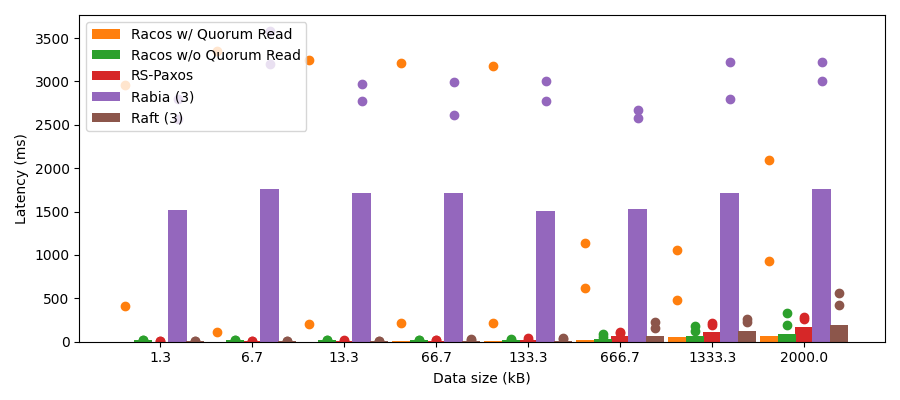
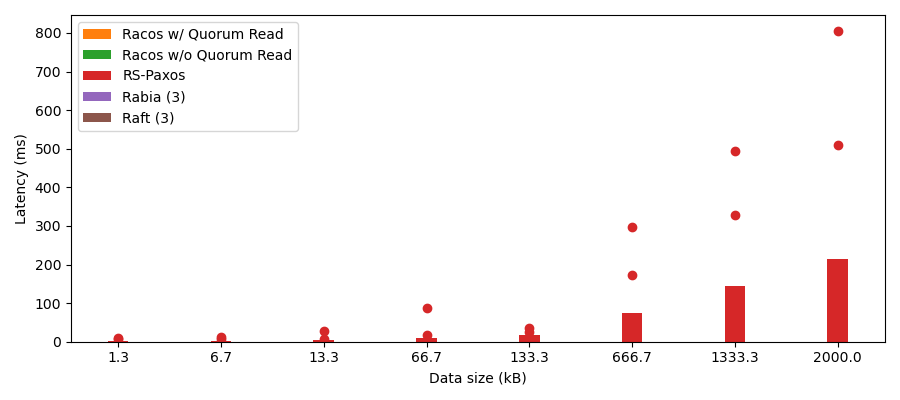
changed plotting

diff --git a/helpers/plotting_helpers.py b/helpers/plotting_helpers.py
@@ -91,7 +91,7 @@ def plot_56_getter(data: pandas.DataFrame, alg : str, num_nodes : int, col : str
 
 def plot_loss(test : str, name_53 : str, name_54: str) -> None:
   loss_data : pandas.DataFrame = setup_dataframe(pandas.read_csv(f'data/{test}.csv'), 'packet_loss_config')
-  loss_data = loss_data.loc[loss_data['packet_loss_config'].apply(lambda config : config_matches(r'^2(_2)*$', config))]
+  loss_data = loss_data.loc[loss_data['packet_loss_config'].apply(lambda config : config_matches(r'^2(_2)*_0$', config))]
   if len(loss_data) > 4:
     plot_53_54(loss_data, test, name_53, name_54)
 
